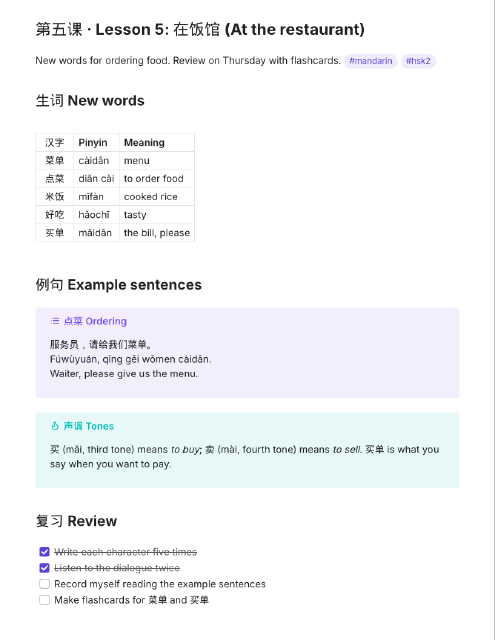
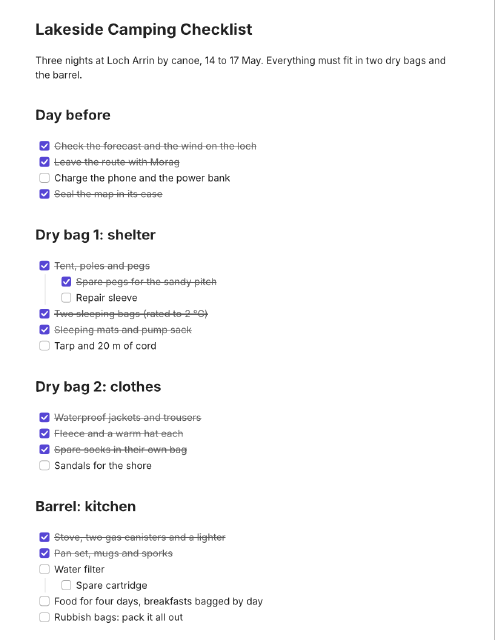
README: an English sample in Made with Note
made-1 is the Lakeside Camping Checklist instead of the Mandarin study notes.

Task: English-only README pictures. Cases: none (README and pictures only).

Changed region(s): [[0.0606, 0.4062, 0.9394, 0.9688], [0.0606, 0.0312, 0.8788, 0.375]]

diff --git a/README.md b/README.md
@@ -94,7 +94,7 @@ their source.
 
 <table>
 <tr>
-<td width="25%"><a href="https://github.com/KitionAI/kition-showcase/tree/main/note/mandarin-study-notes"><img src="assets/readme/made-1.png" alt="Chinese vocabulary notes with characters, pinyin and meanings in a table and example sentences in callouts." /></a></td>
+<td width="25%"><a href="https://github.com/KitionAI/kition-showcase/tree/main/note/lakeside-camping-checklist"><img src="assets/readme/made-1.png" alt="A camping trip packing checklist with tasks nested under each bag and half of them ticked off." /></a></td>
 <td width="25%"><a href="https://github.com/KitionAI/kition-showcase/tree/main/note/mechanics-revision-formulas"><img src="assets/readme/made-2.png" alt="A revision sheet of mechanics formulas set as display and inline math, with a worked example." /></a></td>
 <td width="25%"><a href="https://github.com/KitionAI/kition-showcase/tree/main/note/parcel-tracking-api-reference"><img src="assets/readme/made-3.png" alt="Developer documentation for a small REST API, with request and response code blocks and parameter tables." /></a></td>
 <td width="25%"><a href="https://github.com/KitionAI/kition-showcase/tree/main/note/sourdough-starter-guide"><img src="assets/readme/made-4.png" alt="A sourdough starter guide with wikilinks, tag chips and tip and warning callouts." /></a></td>

diff --git a/docs/development.md b/docs/development.md
@@ -137,7 +137,7 @@ sources in place. The linked install rewrites `web/pnpm-lock.yaml`; do not commi
 
 The README's screenshots are taken by [`web/scripts/readme-shots.mjs`](../web/scripts/readme-shots.mjs)
 from the development host; it is a tool, not a test. `assets/readme/made-1.png` … `made-4.png` are
-the `thumb.png` of four kition-showcase samples (`note/mandarin-study-notes`,
+the `thumb.png` of four kition-showcase samples (`note/lakeside-camping-checklist`,
 `note/mechanics-revision-formulas`, `note/parcel-tracking-api-reference`,
 `note/sourdough-starter-guide`), copied as they are.
 
